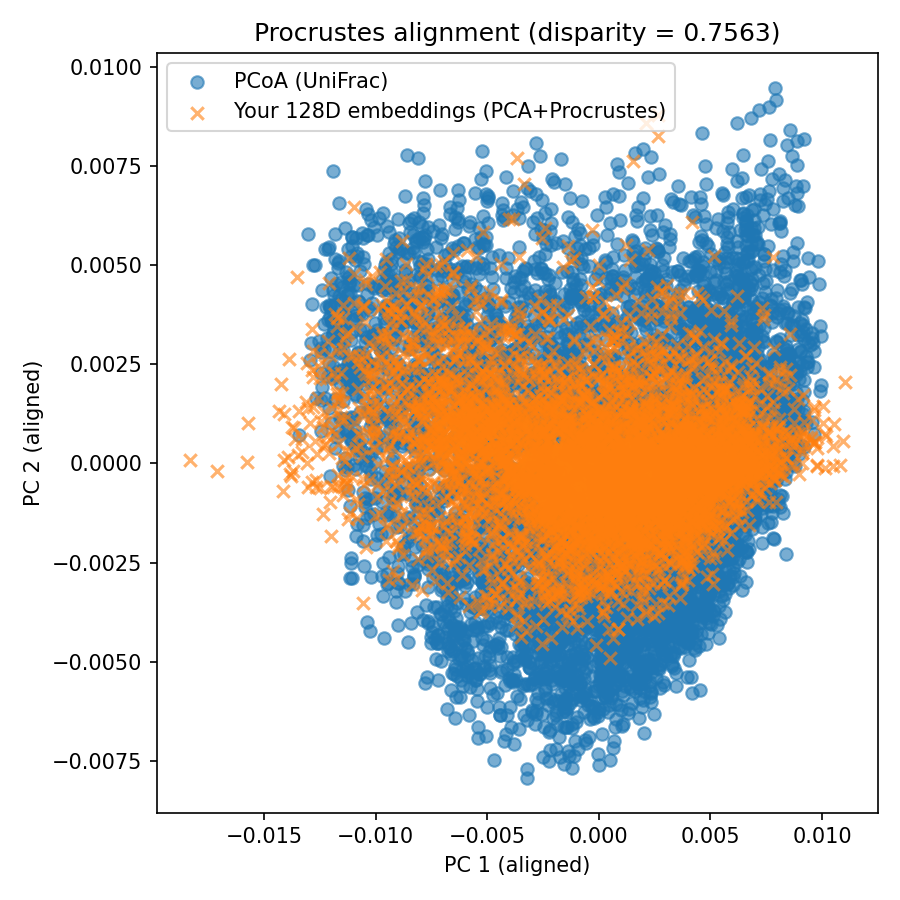
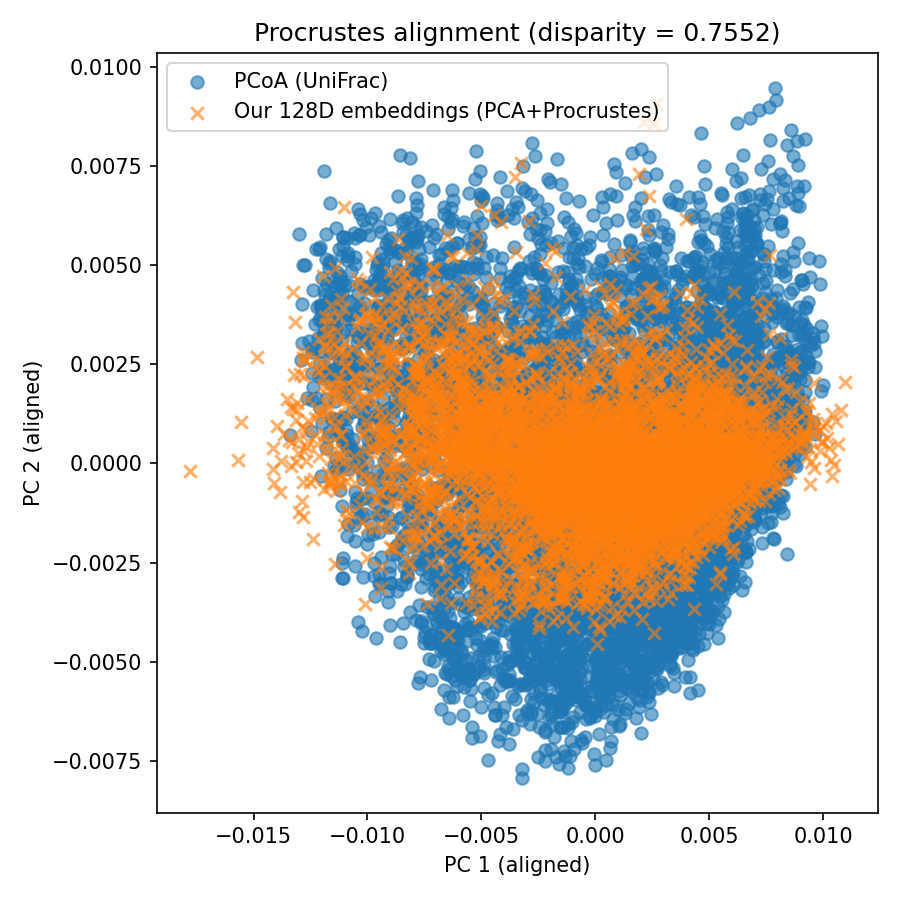
changed names

diff --git a/train/train.py b/train/train.py
@@ -24,7 +24,7 @@ TREE_PATH = "train_filtered/tree.nwk"
 # os.environ["CUDA_VISIBLE_DEVICES"] = "0"
 
 RAREFY_DEPTH = 5000                # target reads per sample (for model/UniFrac alignment)
-MODEL_READS = 1024                 # reads per sample fed to the model
+MODEL_READS = 3800                 # reads per sample fed to the model
 MAX_SAMPLES = None                 # cap number of samples per epoch
 
 SEQ_LEN = 150                      # 150bp sequences
@@ -244,10 +244,13 @@ class AttnPool1D(nn.Module):
     """
     def __init__(self, dim, hidden=128):
         super().__init__()
+        # self.proj = nn.Sequential(
+        #     nn.Linear(dim, hidden),
+        #     nn.Tanh(),
+        #     nn.Linear(hidden, 1) # # (B, N, 1) weights
+        # )
         self.proj = nn.Sequential(
-            nn.Linear(dim, hidden),
-            nn.Tanh(),
-            nn.Linear(hidden, 1) # # (B, N, 1) weights
+            nn.Linear(dim, 1)  # simpler: single linear layer to get (B, N, 1) weights
         )
 
     def forward(self, x):

diff --git a/train/procrustes_unifrac.py b/train/procrustes_unifrac.py
@@ -92,7 +92,7 @@ def main(EMBEDDINGS_FP, UNIFRAC_FP, N_PROCRUSTES_DIMS = 128):
         fig, ax = plt.subplots(figsize=(6, 6))
 
         ax.scatter(mtx1[:, 0], mtx1[:, 1], marker='o', alpha=0.6, label="PCoA (UniFrac)")
-        ax.scatter(mtx2[:, 0], mtx2[:, 1], marker='x', alpha=0.6, label="Your 128D embeddings (PCA+Procrustes)")
+        ax.scatter(mtx2[:, 0], mtx2[:, 1], marker='x', alpha=0.6, label="Our 128D embeddings (PCA+Procrustes)")
 
         ax.set_xlabel("PC 1 (aligned)")
         ax.set_ylabel("PC 2 (aligned)")

diff --git a/train/inference.py b/train/inference.py
@@ -24,8 +24,8 @@ from train import (
 
 # ----- CONFIG -----
 BIOM_PATH = "train_filtered/train.biom"          # same as training
-CKPT_PATH = "pres_transformer_encoder_epoch_16.pt"       # your 20-epoch checkpoint
-OUT_TSV = "embeddings_epoch16.tsv"                         
+CKPT_PATH = "../data/models/pres_transformer_encoder_epoch_20_attentionpoollnear_L2norm.pt"       # your 20-epoch checkpoint
+OUT_TSV = "embeddings_epoch20.tsv"                         
 
 @torch.no_grad()
 def main():
